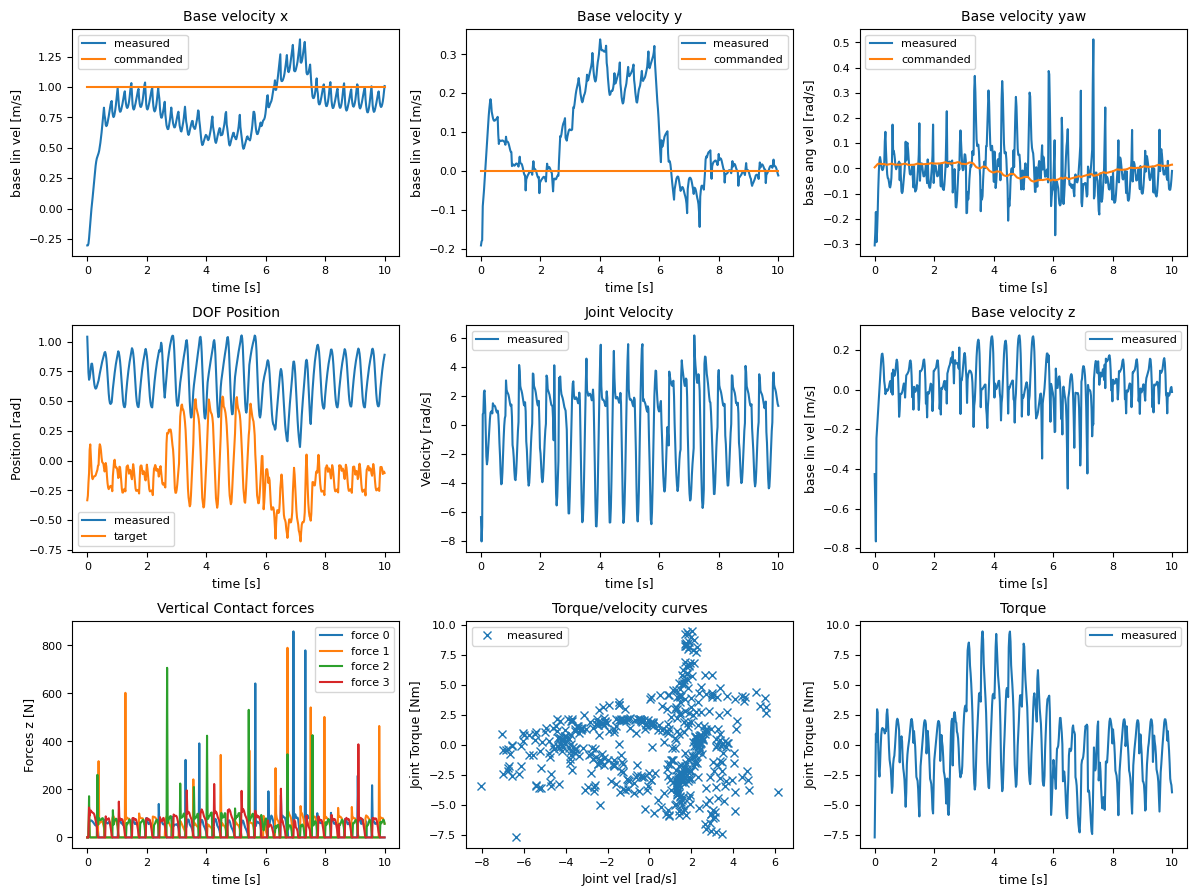
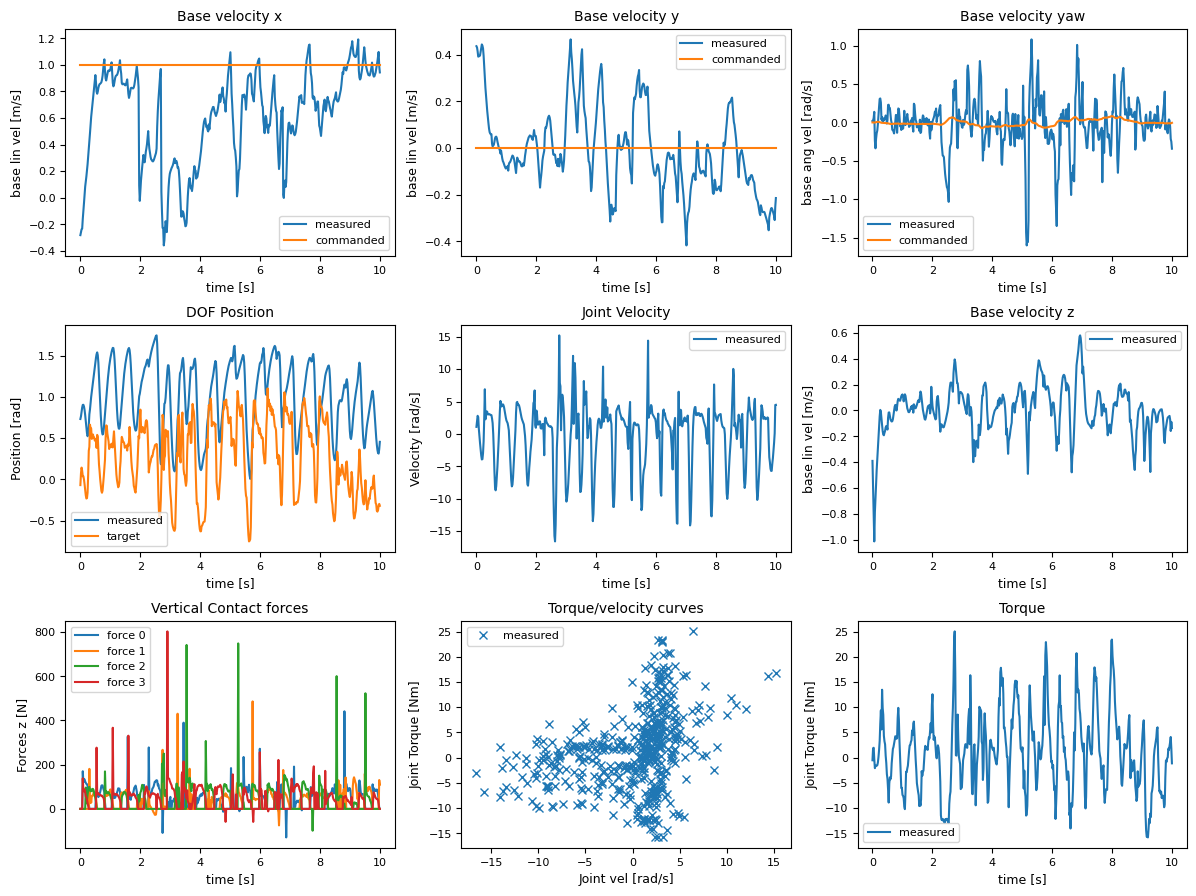
tcn implemented

diff --git a/rsl_rl/modules/actor_critic_ts.py b/rsl_rl/modules/actor_critic_ts.py
@@ -1,33 +1,3 @@
-# SPDX-FileCopyrightText: Copyright (c) 2021 NVIDIA CORPORATION & AFFILIATES. All rights reserved.
-# SPDX-License-Identifier: BSD-3-Clause
-#
-# Redistribution and use in source and binary forms, with or without
-# modification, are permitted provided that the following conditions are met:
-#
-# 1. Redistributions of source code must retain the above copyright notice, this
-# list of conditions and the following disclaimer.
-#
-# 2. Redistributions in binary form must reproduce the above copyright notice,
-# this list of conditions and the following disclaimer in the documentation
-# and/or other materials provided with the distribution.
-#
-# 3. Neither the name of the copyright holder nor the names of its
-# contributors may be used to endorse or promote products derived from
-# this software without specific prior written permission.
-#
-# THIS SOFTWARE IS PROVIDED BY THE COPYRIGHT HOLDERS AND CONTRIBUTORS "AS IS"
-# AND ANY EXPRESS OR IMPLIED WARRANTIES, INCLUDING, BUT NOT LIMITED TO, THE
-# IMPLIED WARRANTIES OF MERCHANTABILITY AND FITNESS FOR A PARTICULAR PURPOSE ARE
-# DISCLAIMED. IN NO EVENT SHALL THE COPYRIGHT HOLDER OR CONTRIBUTORS BE LIABLE
-# FOR ANY DIRECT, INDIRECT, INCIDENTAL, SPECIAL, EXEMPLARY, OR CONSEQUENTIAL
-# DAMAGES (INCLUDING, BUT NOT LIMITED TO, PROCUREMENT OF SUBSTITUTE GOODS OR
-# SERVICES; LOSS OF USE, DATA, OR PROFITS; OR BUSINESS INTERRUPTION) HOWEVER
-# CAUSED AND ON ANY THEORY OF LIABILITY, WHETHER IN CONTRACT, STRICT LIABILITY,
-# OR TORT (INCLUDING NEGLIGENCE OR OTHERWISE) ARISING IN ANY WAY OUT OF THE USE
-# OF THIS SOFTWARE, EVEN IF ADVISED OF THE POSSIBILITY OF SUCH DAMAGE.
-#
-# Copyright (c) 2021 ETH Zurich, Nikita Rudin
-
 import numpy as np
 
 import torch
@@ -52,7 +22,13 @@ class ActorCriticTS(nn.Module):
                  actor_hidden_dims=[256, 256, 256],
                  critic_hidden_dims=[256, 256, 256],
                  privilege_encoder_hidden_dims=[256, 128],
+                 history_encoder_type="MLP", # "MLP" or "TCN"
                  history_encoder_hidden_dims=[256, 128],
+                 history_encoder_channel_dims=[30, 30, 30, 30, 30, 30], # for TCN
+                 history_encoder_dilation=[1, 1, 2, 1, 4, 1], # for TCN
+                 history_encoder_stride=[1, 2, 1, 2, 1, 2], # for TCN
+                 history_encoder_final_layer_dim=128, # for TCN
+                 kernel_size=5,
                  activation='elu',
                  init_noise_std=1.0,
                  **kwargs):
@@ -83,19 +59,44 @@ class ActorCriticTS(nn.Module):
         self.privilege_encoder = nn.Sequential(*privilege_encoder_layers)
 
         # History encoder
+        self.history_encoder_type = history_encoder_type
         history_encoder_layers = []
-        history_encoder_layers.append(
-            nn.Linear(num_history_encoder_input, history_encoder_hidden_dims[0]))
-        history_encoder_layers.append(activation)
-        for l in range(len(history_encoder_hidden_dims)):
-            if l == len(history_encoder_hidden_dims) - 1:
+        if history_encoder_type == "MLP":
+            history_encoder_layers.append(
+                nn.Linear(num_history_encoder_input, history_encoder_hidden_dims[0]))
+            history_encoder_layers.append(activation)
+            for l in range(len(history_encoder_hidden_dims)):
+                if l == len(history_encoder_hidden_dims) - 1:
+                    history_encoder_layers.append(
+                        nn.Linear(history_encoder_hidden_dims[l], num_latent_dims))
+                else:
+                    history_encoder_layers.append(
+                        nn.Linear(history_encoder_hidden_dims[l], history_encoder_hidden_dims[l + 1]))
+                    history_encoder_layers.append(activation)
+            self.history_encoder = nn.Sequential(*history_encoder_layers)
+        elif history_encoder_type == "TCN":
+            in_channels = 1
+            for l in range(len(history_encoder_channel_dims)):
+                out_channels = history_encoder_channel_dims[l]
+                padding = history_encoder_dilation[l]*(kernel_size-1)// 2
                 history_encoder_layers.append(
-                    nn.Linear(history_encoder_hidden_dims[l], num_latent_dims))
-            else:
-                history_encoder_layers.append(
-                    nn.Linear(history_encoder_hidden_dims[l], history_encoder_hidden_dims[l + 1]))
-                history_encoder_layers.append(activation)
-        self.history_encoder = nn.Sequential(*history_encoder_layers)
+                    nn.Conv1d(in_channels, out_channels, kernel_size,
+                              stride=history_encoder_stride[l],
+                              padding=padding,
+                              dilation=history_encoder_dilation[l])
+                )
+                in_channels = out_channels
+                num_history_encoder_input = (num_history_encoder_input - 1) // history_encoder_stride[l] + 1
+            history_encoder_output_layer = nn.Linear(
+                num_history_encoder_input * history_encoder_channel_dims[-1], history_encoder_final_layer_dim)
+            history_encoder_output_activation = activation
+            history_encoder_latent_layer = nn.Linear(
+                history_encoder_final_layer_dim, num_latent_dims)
+            history_encoder_layers.append(nn.Flatten())
+            history_encoder_layers.append(history_encoder_output_layer)
+            history_encoder_layers.append(history_encoder_output_activation)
+            history_encoder_layers.append(history_encoder_latent_layer)
+            self.history_encoder = nn.Sequential(*history_encoder_layers)
 
         # Policy
         actor_layers = []
@@ -125,7 +126,7 @@ class ActorCriticTS(nn.Module):
         self.critic = nn.Sequential(*critic_layers)
 
         print(f"Privilege Encoder MLP: {self.privilege_encoder}")
-        print(f"History Encoder MLP: {self.history_encoder}")
+        print(f"History Encoder: {self.history_encoder}")
         print(f"Actor MLP: {self.actor}")
         print(f"Critic MLP: {self.critic}")
 
@@ -183,6 +184,9 @@ class ActorCriticTS(nn.Module):
         return actions_mean
 
     def act_student(self, observations, observation_history, **kwargs):
+        if self.history_encoder_type == "TCN":
+            # input shape (batch_size, obs_history_len) -> (batch_size, 1, obs_history_len)
+            observation_history = observation_history.unsqueeze(1)
         latent = self.history_encoder(observation_history)
         actions_mean = self.actor(torch.cat(
             (

diff --git a/rsl_rl/algorithms/ppo_ts.py b/rsl_rl/algorithms/ppo_ts.py
@@ -1,33 +1,3 @@
-# SPDX-FileCopyrightText: Copyright (c) 2021 NVIDIA CORPORATION & AFFILIATES. All rights reserved.
-# SPDX-License-Identifier: BSD-3-Clause
-#
-# Redistribution and use in source and binary forms, with or without
-# modification, are permitted provided that the following conditions are met:
-#
-# 1. Redistributions of source code must retain the above copyright notice, this
-# list of conditions and the following disclaimer.
-#
-# 2. Redistributions in binary form must reproduce the above copyright notice,
-# this list of conditions and the following disclaimer in the documentation
-# and/or other materials provided with the distribution.
-#
-# 3. Neither the name of the copyright holder nor the names of its
-# contributors may be used to endorse or promote products derived from
-# this software without specific prior written permission.
-#
-# THIS SOFTWARE IS PROVIDED BY THE COPYRIGHT HOLDERS AND CONTRIBUTORS "AS IS"
-# AND ANY EXPRESS OR IMPLIED WARRANTIES, INCLUDING, BUT NOT LIMITED TO, THE
-# IMPLIED WARRANTIES OF MERCHANTABILITY AND FITNESS FOR A PARTICULAR PURPOSE ARE
-# DISCLAIMED. IN NO EVENT SHALL THE COPYRIGHT HOLDER OR CONTRIBUTORS BE LIABLE
-# FOR ANY DIRECT, INDIRECT, INCIDENTAL, SPECIAL, EXEMPLARY, OR CONSEQUENTIAL
-# DAMAGES (INCLUDING, BUT NOT LIMITED TO, PROCUREMENT OF SUBSTITUTE GOODS OR
-# SERVICES; LOSS OF USE, DATA, OR PROFITS; OR BUSINESS INTERRUPTION) HOWEVER
-# CAUSED AND ON ANY THEORY OF LIABILITY, WHETHER IN CONTRACT, STRICT LIABILITY,
-# OR TORT (INCLUDING NEGLIGENCE OR OTHERWISE) ARISING IN ANY WAY OUT OF THE USE
-# OF THIS SOFTWARE, EVEN IF ADVISED OF THE POSSIBILITY OF SUCH DAMAGE.
-#
-# Copyright (c) 2021 ETH Zurich, Nikita Rudin
-
 import torch
 import torch.nn as nn
 import torch.optim as optim
@@ -210,6 +180,10 @@ class PPO_TS:
             
             # history encoder gradient step
             for _ in range(self.num_encoder_epochs):
+                if self.actor_critic.history_encoder_type == "TCN":
+                    if obs_histories_batch.dim() == 2:
+                        # input shape (batch_size, obs_history_len) -> (batch_size, 1, obs_history_len)
+                        obs_histories_batch = obs_histories_batch.unsqueeze(1)
                 encoder_predictions = self.actor_critic.history_encoder(obs_histories_batch)
                 
                 with torch.no_grad(): # don't backpropagate through the encoder targets

diff --git a/rsl_rl/algorithms/ppo_ee.py b/rsl_rl/algorithms/ppo_ee.py
@@ -1,33 +1,3 @@
-# SPDX-FileCopyrightText: Copyright (c) 2021 NVIDIA CORPORATION & AFFILIATES. All rights reserved.
-# SPDX-License-Identifier: BSD-3-Clause
-#
-# Redistribution and use in source and binary forms, with or without
-# modification, are permitted provided that the following conditions are met:
-#
-# 1. Redistributions of source code must retain the above copyright notice, this
-# list of conditions and the following disclaimer.
-#
-# 2. Redistributions in binary form must reproduce the above copyright notice,
-# this list of conditions and the following disclaimer in the documentation
-# and/or other materials provided with the distribution.
-#
-# 3. Neither the name of the copyright holder nor the names of its
-# contributors may be used to endorse or promote products derived from
-# this software without specific prior written permission.
-#
-# THIS SOFTWARE IS PROVIDED BY THE COPYRIGHT HOLDERS AND CONTRIBUTORS "AS IS"
-# AND ANY EXPRESS OR IMPLIED WARRANTIES, INCLUDING, BUT NOT LIMITED TO, THE
-# IMPLIED WARRANTIES OF MERCHANTABILITY AND FITNESS FOR A PARTICULAR PURPOSE ARE
-# DISCLAIMED. IN NO EVENT SHALL THE COPYRIGHT HOLDER OR CONTRIBUTORS BE LIABLE
-# FOR ANY DIRECT, INDIRECT, INCIDENTAL, SPECIAL, EXEMPLARY, OR CONSEQUENTIAL
-# DAMAGES (INCLUDING, BUT NOT LIMITED TO, PROCUREMENT OF SUBSTITUTE GOODS OR
-# SERVICES; LOSS OF USE, DATA, OR PROFITS; OR BUSINESS INTERRUPTION) HOWEVER
-# CAUSED AND ON ANY THEORY OF LIABILITY, WHETHER IN CONTRACT, STRICT LIABILITY,
-# OR TORT (INCLUDING NEGLIGENCE OR OTHERWISE) ARISING IN ANY WAY OUT OF THE USE
-# OF THIS SOFTWARE, EVEN IF ADVISED OF THE POSSIBILITY OF SUCH DAMAGE.
-#
-# Copyright (c) 2021 ETH Zurich, Nikita Rudin
-
 import torch
 import torch.nn as nn
 import torch.optim as optim

diff --git a/rsl_rl/modules/actor_critic_ee.py b/rsl_rl/modules/actor_critic_ee.py
@@ -1,33 +1,3 @@
-# SPDX-FileCopyrightText: Copyright (c) 2021 NVIDIA CORPORATION & AFFILIATES. All rights reserved.
-# SPDX-License-Identifier: BSD-3-Clause
-#
-# Redistribution and use in source and binary forms, with or without
-# modification, are permitted provided that the following conditions are met:
-#
-# 1. Redistributions of source code must retain the above copyright notice, this
-# list of conditions and the following disclaimer.
-#
-# 2. Redistributions in binary form must reproduce the above copyright notice,
-# this list of conditions and the following disclaimer in the documentation
-# and/or other materials provided with the distribution.
-#
-# 3. Neither the name of the copyright holder nor the names of its
-# contributors may be used to endorse or promote products derived from
-# this software without specific prior written permission.
-#
-# THIS SOFTWARE IS PROVIDED BY THE COPYRIGHT HOLDERS AND CONTRIBUTORS "AS IS"
-# AND ANY EXPRESS OR IMPLIED WARRANTIES, INCLUDING, BUT NOT LIMITED TO, THE
-# IMPLIED WARRANTIES OF MERCHANTABILITY AND FITNESS FOR A PARTICULAR PURPOSE ARE
-# DISCLAIMED. IN NO EVENT SHALL THE COPYRIGHT HOLDER OR CONTRIBUTORS BE LIABLE
-# FOR ANY DIRECT, INDIRECT, INCIDENTAL, SPECIAL, EXEMPLARY, OR CONSEQUENTIAL
-# DAMAGES (INCLUDING, BUT NOT LIMITED TO, PROCUREMENT OF SUBSTITUTE GOODS OR
-# SERVICES; LOSS OF USE, DATA, OR PROFITS; OR BUSINESS INTERRUPTION) HOWEVER
-# CAUSED AND ON ANY THEORY OF LIABILITY, WHETHER IN CONTRACT, STRICT LIABILITY,
-# OR TORT (INCLUDING NEGLIGENCE OR OTHERWISE) ARISING IN ANY WAY OUT OF THE USE
-# OF THIS SOFTWARE, EVEN IF ADVISED OF THE POSSIBILITY OF SUCH DAMAGE.
-#
-# Copyright (c) 2021 ETH Zurich, Nikita Rudin
-
 import numpy as np
 
 import torch

diff --git a/legged_gym/envs/go2/go2_ts/go2_ts_config.py b/legged_gym/envs/go2/go2_ts/go2_ts_config.py
@@ -5,7 +5,7 @@ class Go2TSCfg( LeggedRobotCfg ):
         num_envs = 4096
         num_observations = 45  # num_obs
         num_privileged_obs = 94
-        frame_stack = 4    # number of frames to stack for obs_history
+        frame_stack = 20    # number of frames to stack for obs_history
         num_history_obs = int(num_observations * frame_stack)
         num_latent_dims = num_privileged_obs
         c_frame_stack = 5
@@ -156,16 +156,22 @@ class Go2TSCfgPPO( LeggedRobotCfgPPO ):
     class policy( LeggedRobotCfgPPO.policy ):
         critic_hidden_dims = [1024, 256, 128]
         privilege_encoder_hidden_dims = [256, 128]
-        history_encoder_hidden_dims = [256, 128]
+        history_encoder_type = "MLP" # "MLP" or "TCN"
+        history_encoder_hidden_dims = [256, 128]       # for MLP
+        history_encoder_channel_dims = [1, 1, 1, 1]    # for TCN
+        history_encoder_dilation = [1, 1, 2, 1]        # for TCN
+        history_encoder_stride = [1, 2, 1, 2]          # for TCN
+        history_encoder_final_layer_dim = 128          # for TCN
+        kernel_size = 5
     class algorithm( LeggedRobotCfgPPO.algorithm ):
         encoder_lr = 1e-3
-        num_encoder_epochs = 1
+        num_encoder_epochs = 2
     class runner( LeggedRobotCfgPPO.runner ):
         policy_class_name = "ActorCriticTS"
         algorithm_class_name = "PPO_TS"
-        run_name = 'gs'
+        run_name = 'gs_ts_MLP'
         experiment_name = 'go2_rough'
         save_interval = 500
-        load_run = "Sep28_22-55-11_gs"
+        load_run = "Oct10_16-33-50_gs_ts_TCN"
         checkpoint = -1
-        max_iterations = 2500
+        max_iterations = 2000

diff --git a/docs/source/user_guide/blind_locomotion/teacher_student.md b/docs/source/user_guide/blind_locomotion/teacher_student.md
@@ -1,3 +1,14 @@
 # 🧑🏫🧑🏫 Teacher-Student Framework
 
-In [Walk These Ways](walk_these_ways.md), we know that through tuning robot behaviors, we can let a policy trained on flat ground traverse
+In [Walk These Ways](walk_these_ways.md), we know that through tuning robot behaviors, we can let a policy trained on flat ground traverse some difficult terrains (like small curbs and stairs). It indicates generalization ability of the policy since it has been only trained on flat ground and data concerning complex terrains are not included in the training dataet. However, to achieve better stability and traversability on complex terrains, training on terrains are inavoidable. But as introduced in [deploy_to_real_robot](deploy_to_real_robot.md), just a simple network that gets robot state feedback of one time step is not enough. Actually, if you use RNN or stack observation of multiple time steps, the policy will gain better ability to adapt to terrains. However, we still need some mechanism to effectively extract key information from observation history and endow the policy with better understanding of the robot and the surrounding environment.
+
+## Teacher-Student Framework
+
+As one of the pioneer of RL-based control on legged robots, [RSL from ETH zurich](https://rsl.ethz.ch/) has proposed a series of works to push the limit of quadruped robots on complex terrains. The one introduced here is teacher-student framework.
+
+
+
+
+## References
+
+1. [Learning Quadrupedal Locomotion over Challenging Terrain](https://arxiv.org/abs/2010.11251)
